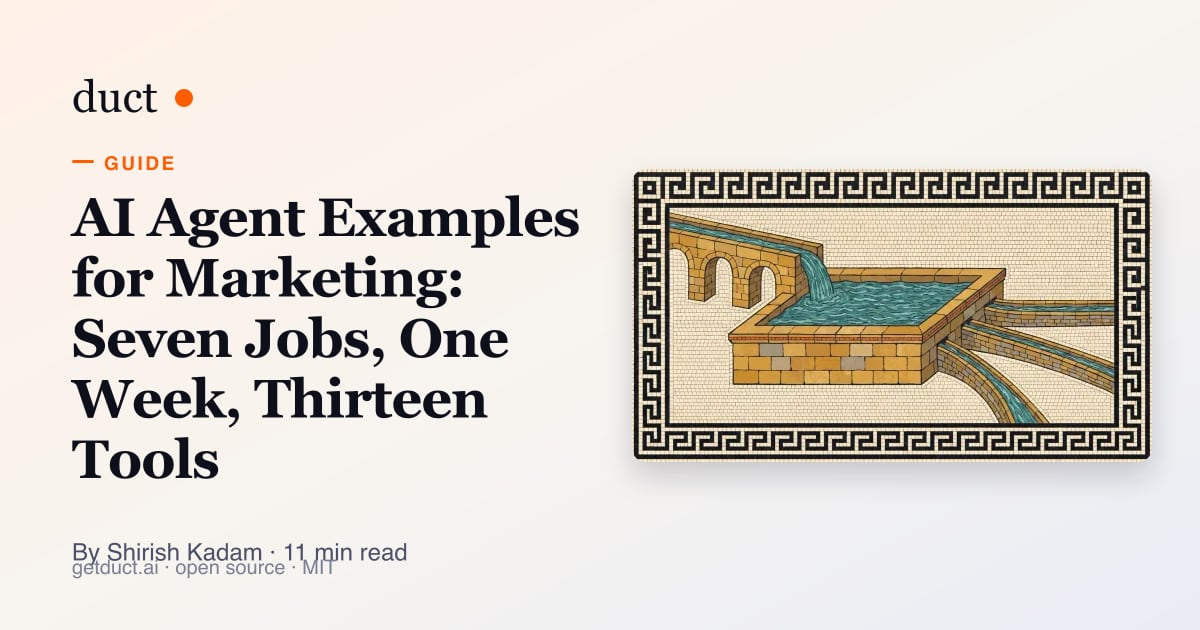
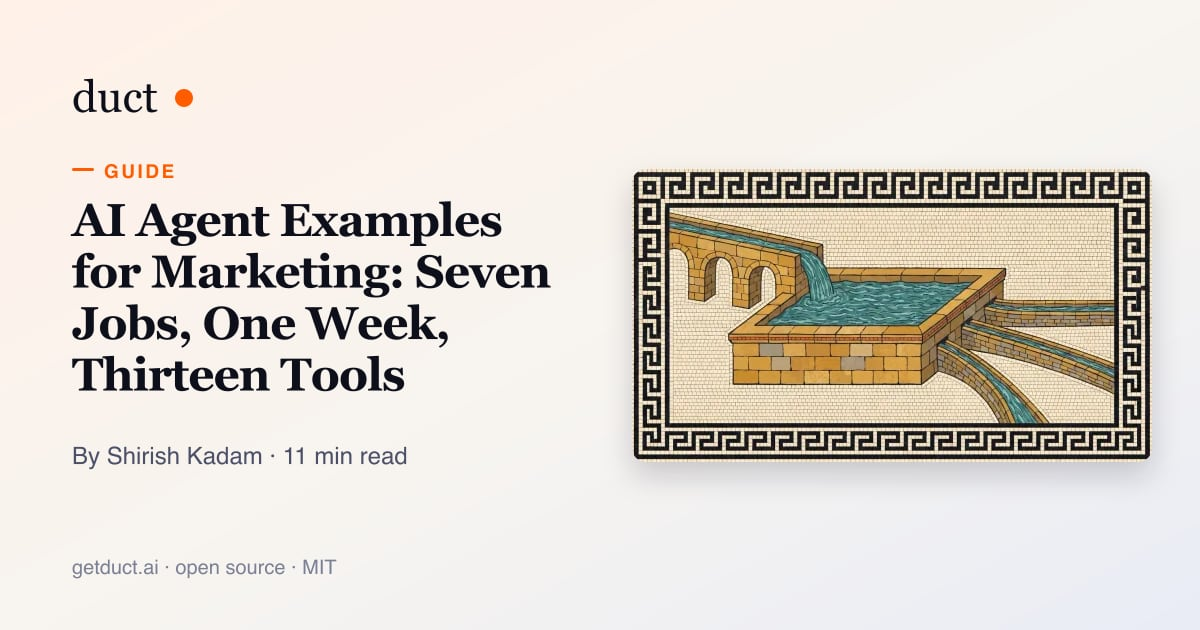
site(blog): guide 3, fixes from the visual pass
From a visual pass over every page, figure, card and hero in the cluster:

- American spelling throughout
- the share card's byline clears the footer (the card generator fix on the base branch)

Refs #431

diff --git a/site/blog/ai-agent-examples-marketing.html b/site/blog/ai-agent-examples-marketing.html
@@ -445,7 +445,7 @@
 <p><strong>The job nobody does by hand, because the week moved on.</strong> You retitled the page, raised the budget, shipped the onboarding fix. The agent reads the metric again next week, lined up against the merge or the applied change, and says whether it moved. Memory is what makes this possible: Duct keeps a remembered state with the date it was seen, and after a shelf life (seven days for campaigns, fourteen for pages) it re-reads the source before stating the old value as current, per the <a href="https://github.com/5hirish/duct/blob/main/CHANGELOG.md">0.7.1 changelog</a>. If the change made it worse, the same change set that applied it can roll it back, on your say-so.</p>
 <h2 id="which-job-should-you-try-first">Which job should you try first?</h2>
 <p><strong>The Monday read, because it needs read-only access and tells you in a week whether the agent reads your stack correctly.</strong> Connect the tools you already pay for, let it write one brief, and check the brief against the dashboards you would have opened anyway. If the numbers match and the reading is right, move to the drop trace and the ranking check. Leave budget changes for last: not because they are dangerous behind an approval gate, but because you should trust the reading before you trust the proposal. The wider map, which jobs to hand over, which to keep and what one costs to run, is in AI agents for marketing.</p>
-<p>The reason the reading jobs come first is the month on a client's Google Ads account that Duct's checks are modelled on, where most of the work went on establishing whether a number could be trusted at all and every serious defect looked healthy on a dashboard. The numbers are in <a href="/blog/ai-agent-vs-chatbot-vs-automation">the agent vs chatbot guide</a>, and the retrospective is the first paragraph of <a href="https://github.com/5hirish/duct/blob/main/backend/agents/insights/checks.py">checks.py</a>.</p>
+<p>The reason the reading jobs come first is the month on a client's Google Ads account that Duct's checks are modeled on, where most of the work went on establishing whether a number could be trusted at all and every serious defect looked healthy on a dashboard. The numbers are in <a href="/blog/ai-agent-vs-chatbot-vs-automation">the agent vs chatbot guide</a>, and the retrospective is the first paragraph of <a href="https://github.com/5hirish/duct/blob/main/backend/agents/insights/checks.py">checks.py</a>.</p>
 <h2 id="which-marketing-jobs-should-you-not-give-an-agent-yet">Which marketing jobs should you not give an agent yet?</h2>
 <p><strong>Anything that spends without a gate, anything that needs taste, and any arithmetic the software could do instead.</strong> Three limits, two of them Duct's own.</p>
 <ul>

diff --git a/site/blog/posts/ai-agent-examples-marketing.md b/site/blog/posts/ai-agent-examples-marketing.md
@@ -89,7 +89,7 @@ One lesson from building it is worth passing on. The model was asked to do the s
 
 **The Monday read, because it needs read-only access and tells you in a week whether the agent reads your stack correctly.** Connect the tools you already pay for, let it write one brief, and check the brief against the dashboards you would have opened anyway. If the numbers match and the reading is right, move to the drop trace and the ranking check. Leave budget changes for last: not because they are dangerous behind an approval gate, but because you should trust the reading before you trust the proposal. The wider map, which jobs to hand over, which to keep and what one costs to run, is in [AI agents for marketing](/blog/ai-agents-for-marketing).
 
-The reason the reading jobs come first is the month on a client's Google Ads account that Duct's checks are modelled on, where most of the work went on establishing whether a number could be trusted at all and every serious defect looked healthy on a dashboard. The numbers are in [the agent vs chatbot guide](/blog/ai-agent-vs-chatbot-vs-automation), and the retrospective is the first paragraph of [checks.py](https://github.com/5hirish/duct/blob/main/backend/agents/insights/checks.py).
+The reason the reading jobs come first is the month on a client's Google Ads account that Duct's checks are modeled on, where most of the work went on establishing whether a number could be trusted at all and every serious defect looked healthy on a dashboard. The numbers are in [the agent vs chatbot guide](/blog/ai-agent-vs-chatbot-vs-automation), and the retrospective is the first paragraph of [checks.py](https://github.com/5hirish/duct/blob/main/backend/agents/insights/checks.py).
 
 ## Which marketing jobs should you not give an agent yet?
 
